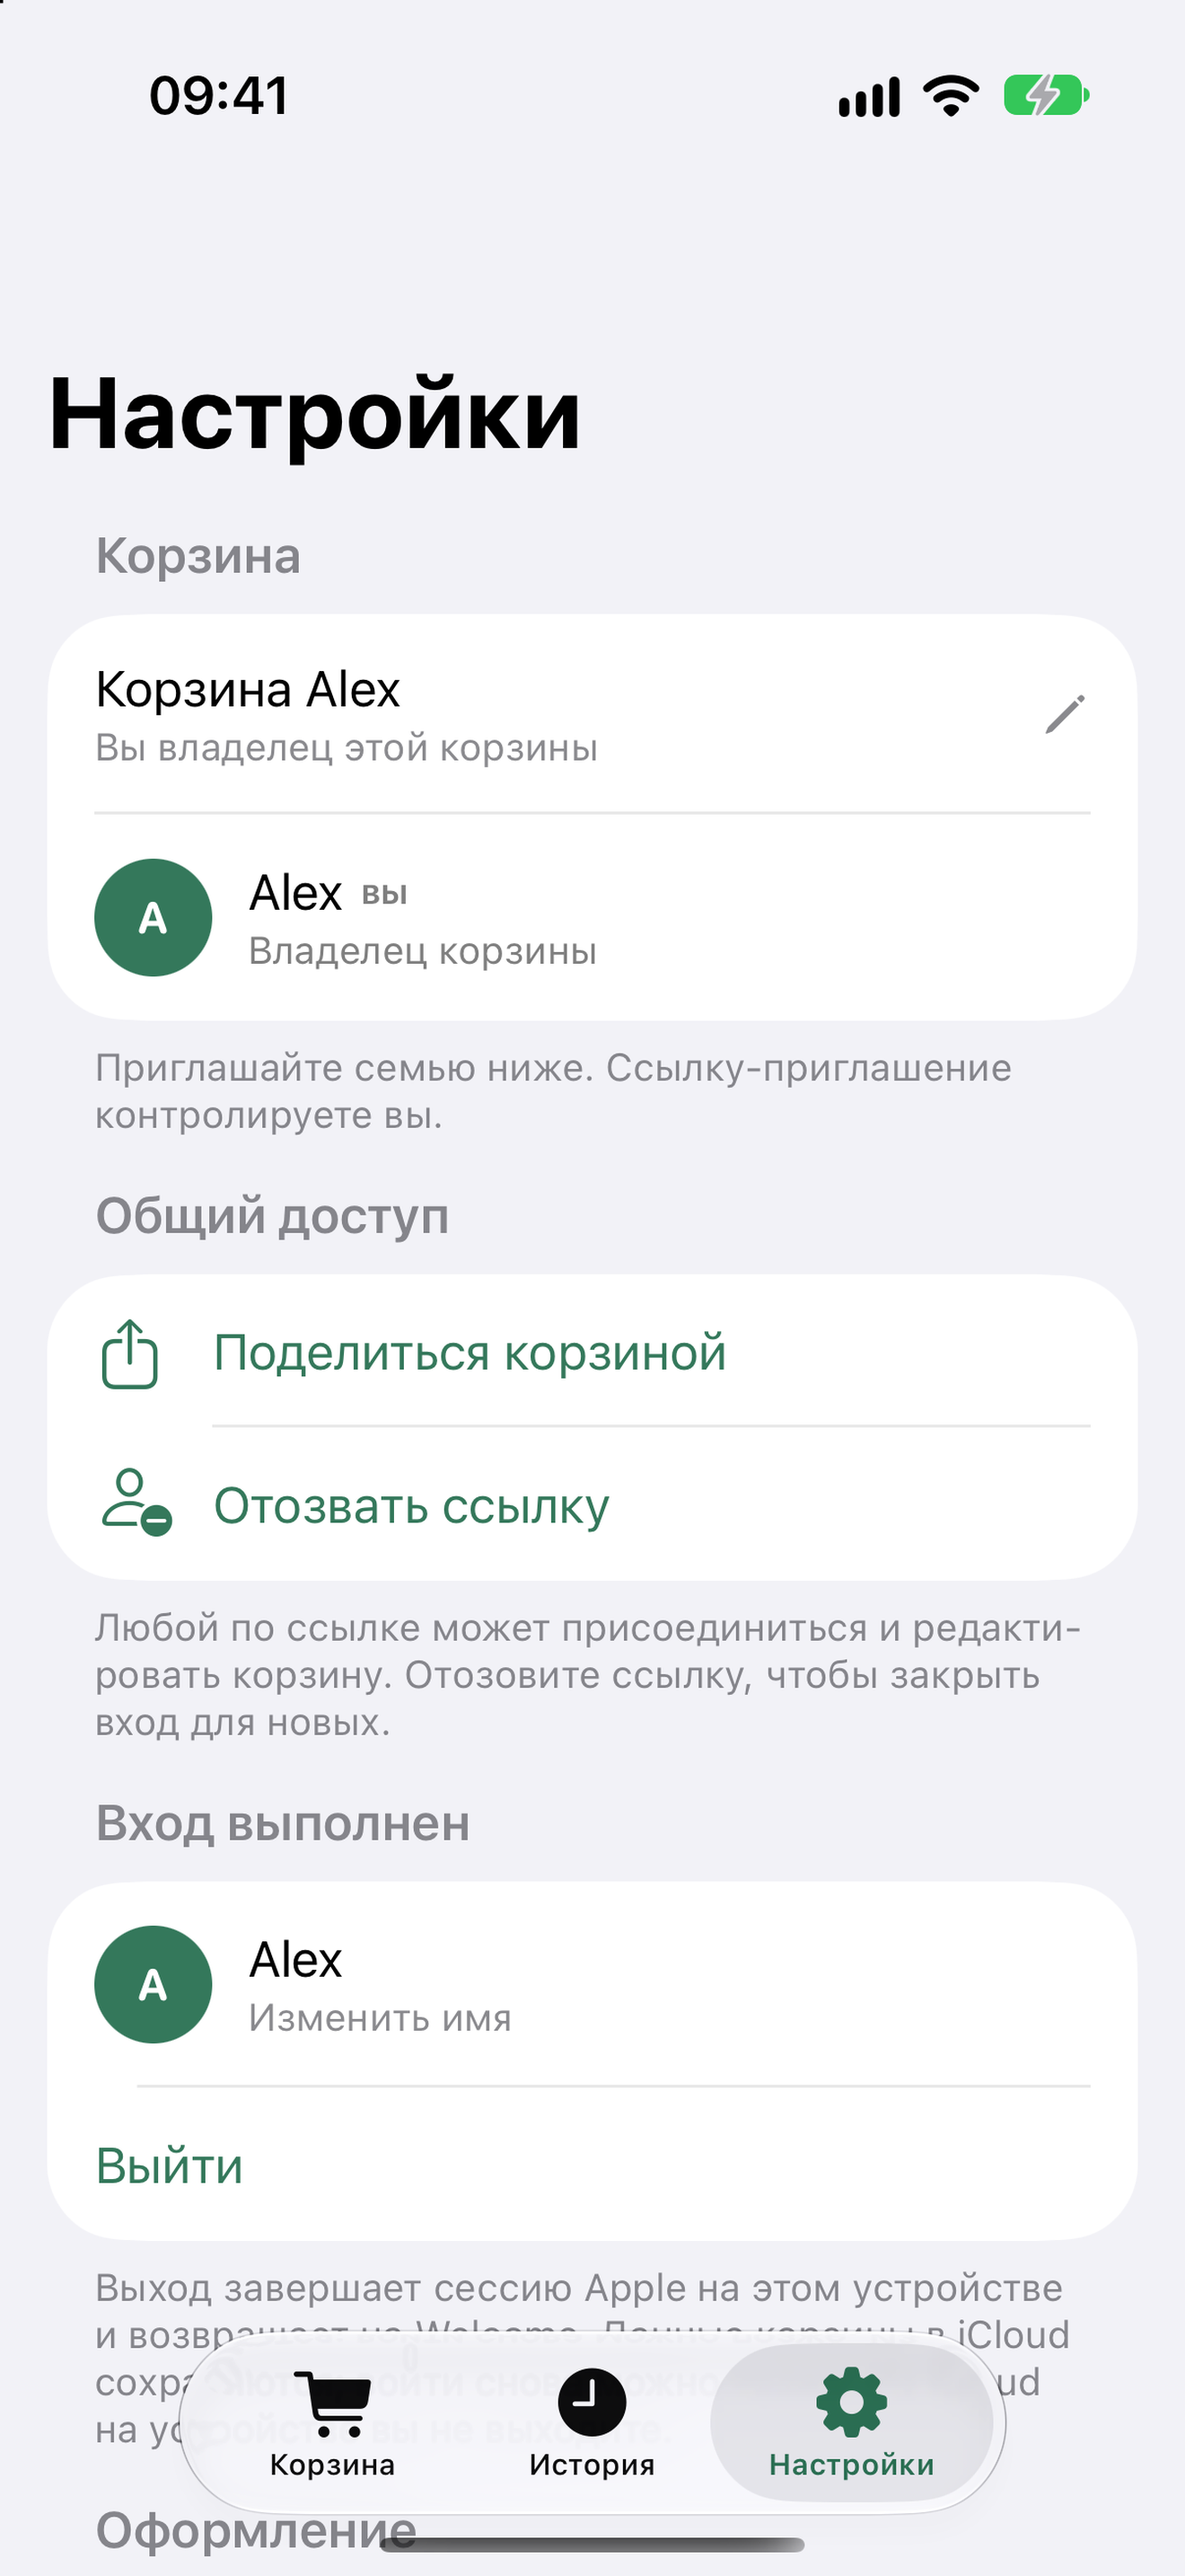
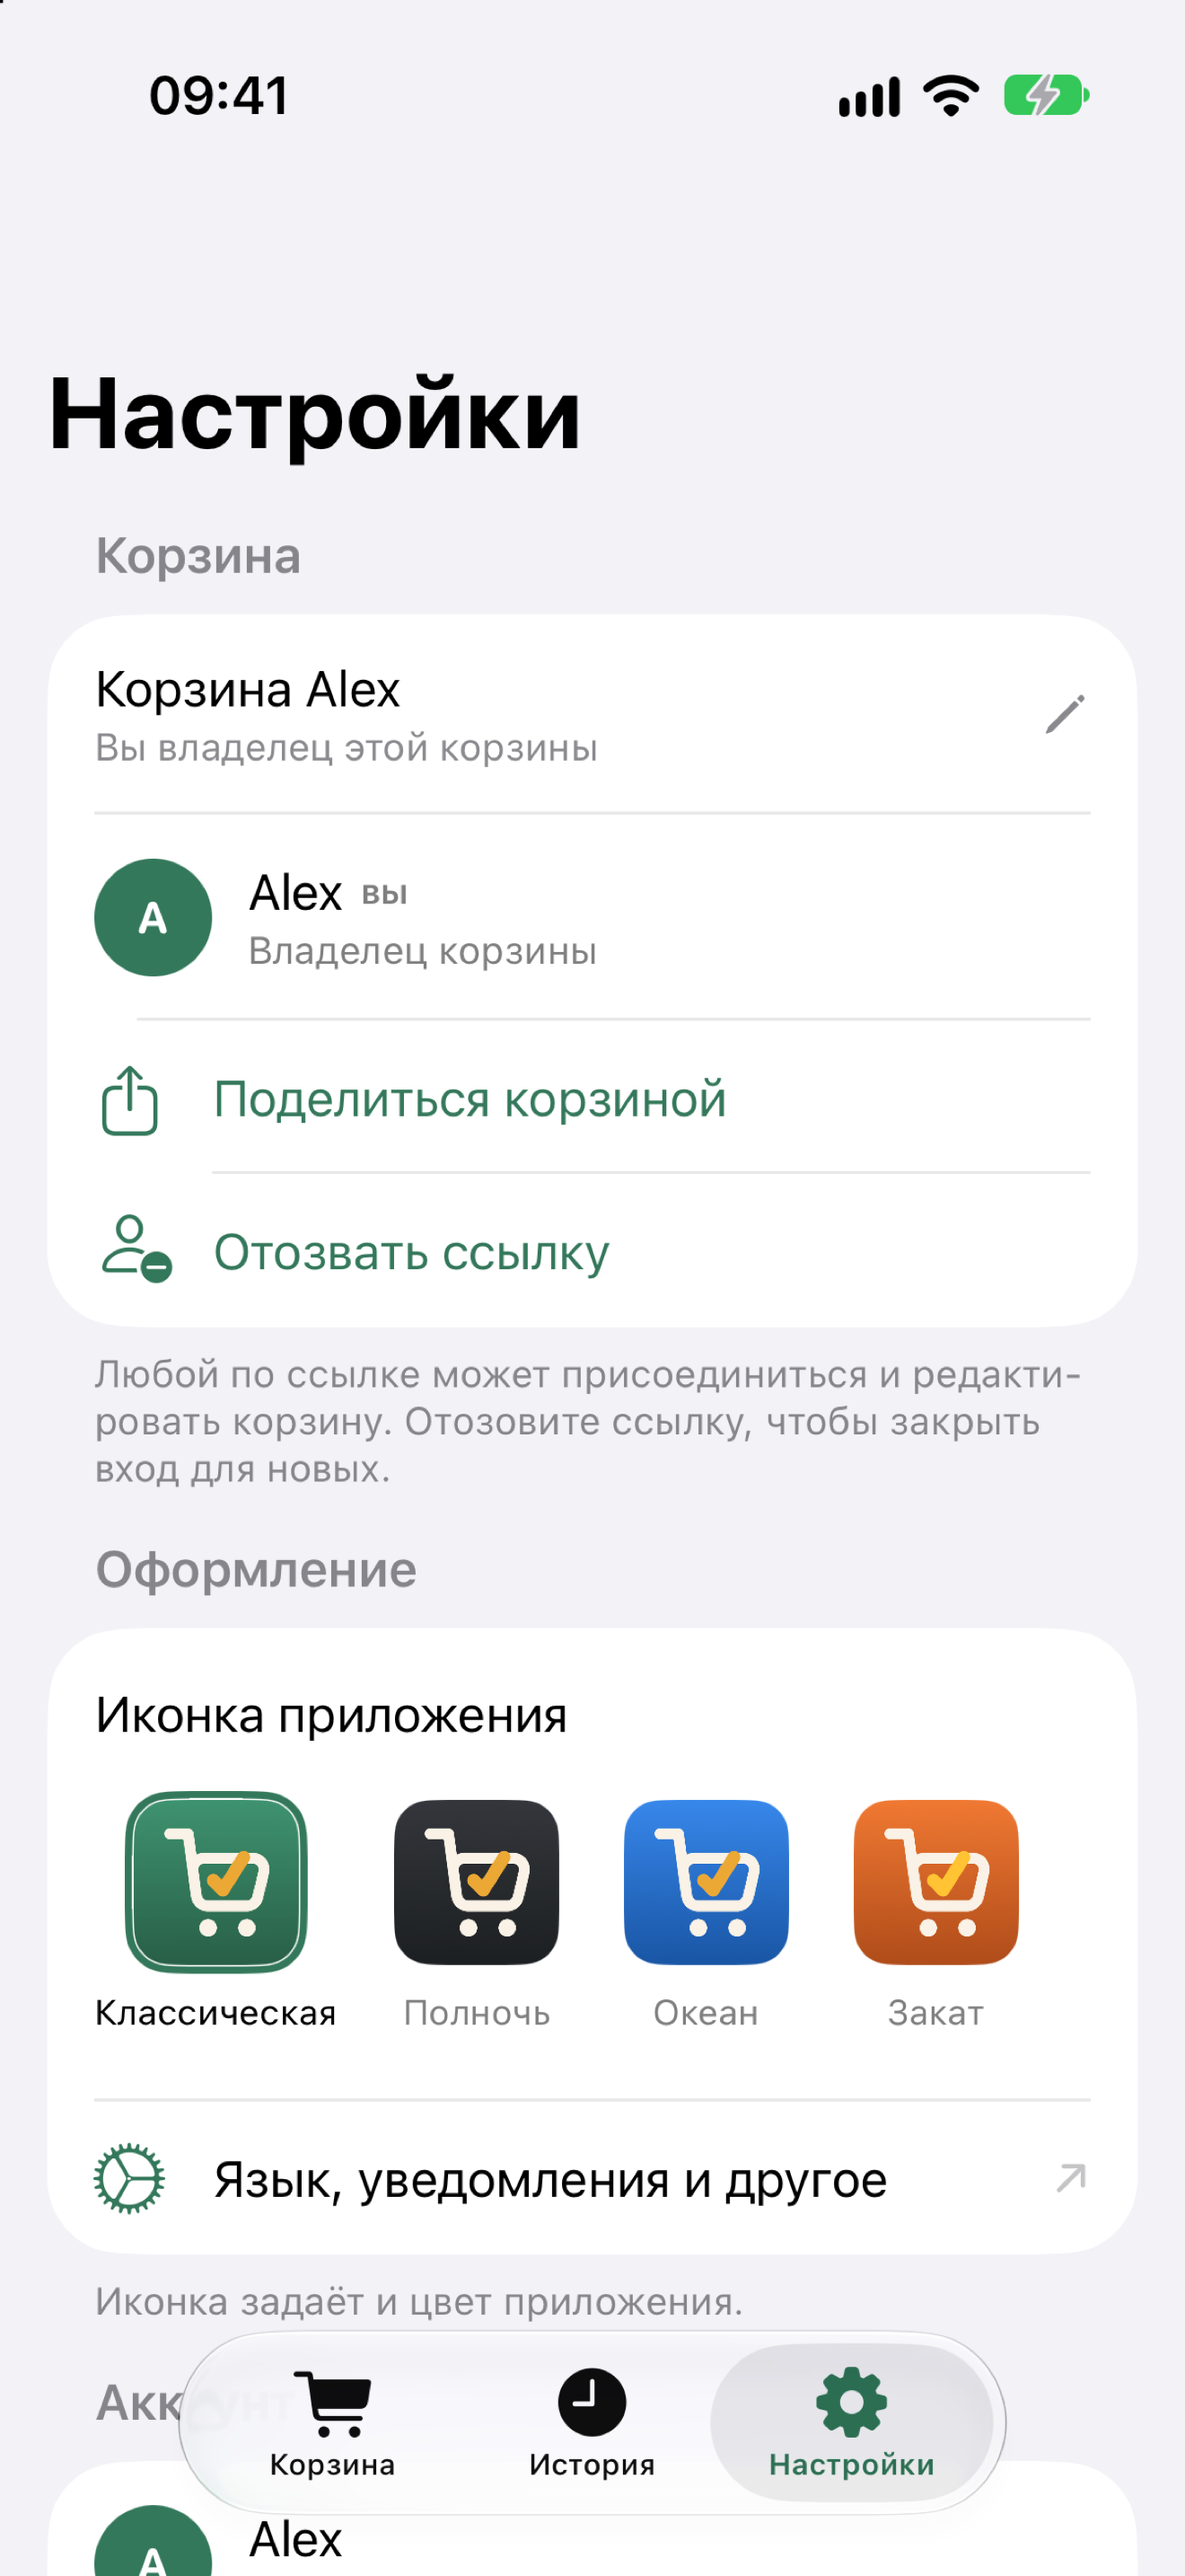
chore(store): retake the cart and Settings screenshots after the feedback round
The cart now shows its progress at the top, and Settings is regrouped
with the app icon setting the accent. The 1.6.0 store set showed the
old progress bar above the tab bar and the old Settings layout.

- 02-cart.png and 04-settings.png in English and Russian, retaken on the
  session simulator with the procedure in assets/store/README.md: demo
  owner, 09:41 status bar, reinstall per language, notification prompt
  allowed. Welcome and History are unchanged.
- README describes the current set.

Validation: every file is 1320 x 2868 (sips); each screen checked
visually before saving.

diff --git a/assets/store/README.md b/assets/store/README.md
@@ -9,7 +9,8 @@ repository and attaches it under App Review Information.
 ## App Store Connect: iPhone 6.9" (1320 × 2868)
 
 Current set for 1.6.0, light theme, captured on 2026-09-22 from the iOS 26/27 redesign (native
-lists, glass add button, progress in the tab bar accessory, Settings as a form). English files are in `screenshots/asc-6.9/` (the repository README shows
+lists, glass add button, progress at the top of the cart, Settings grouped into cart, look & feel
+and account; cart and Settings retaken after the owner's feedback on build 116). English files are in `screenshots/asc-6.9/` (the repository README shows
 them); Russian files with the same names are in `screenshots/asc-6.9/ru/`. Version 1.5.0 was
 submitted with the older 1.0-era set; these replace it in the 1.6.0 version record.
 
